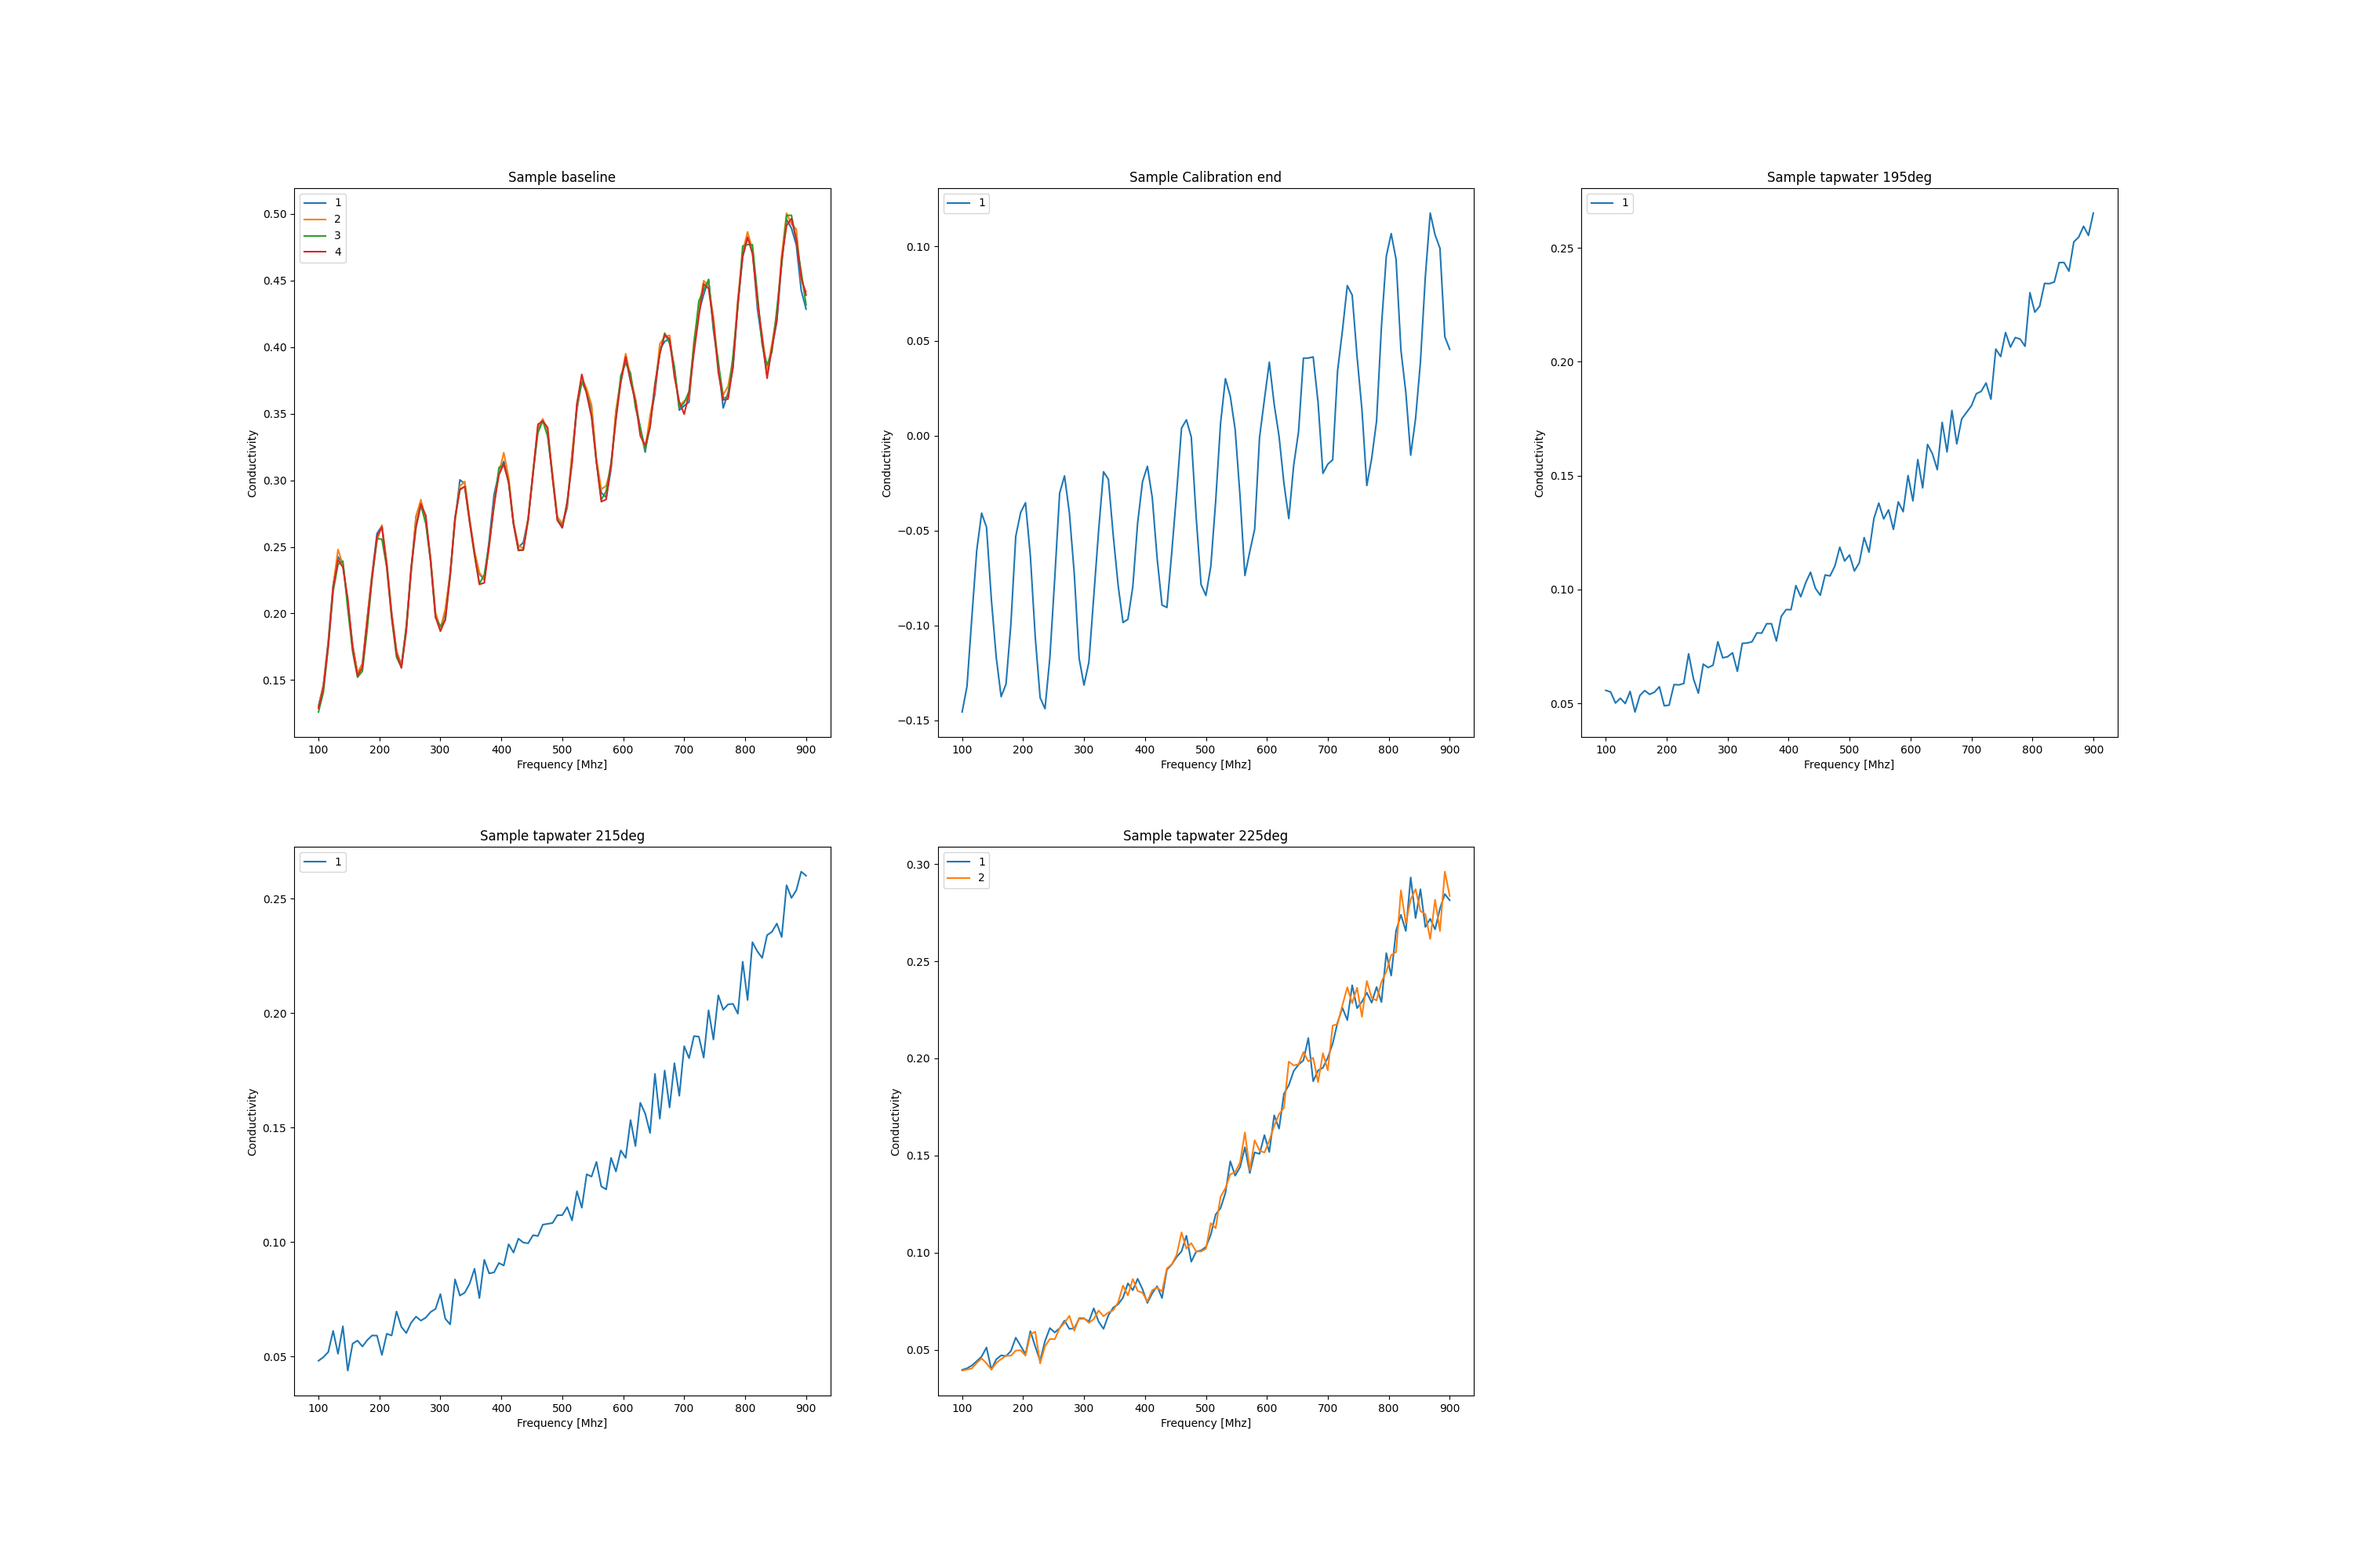
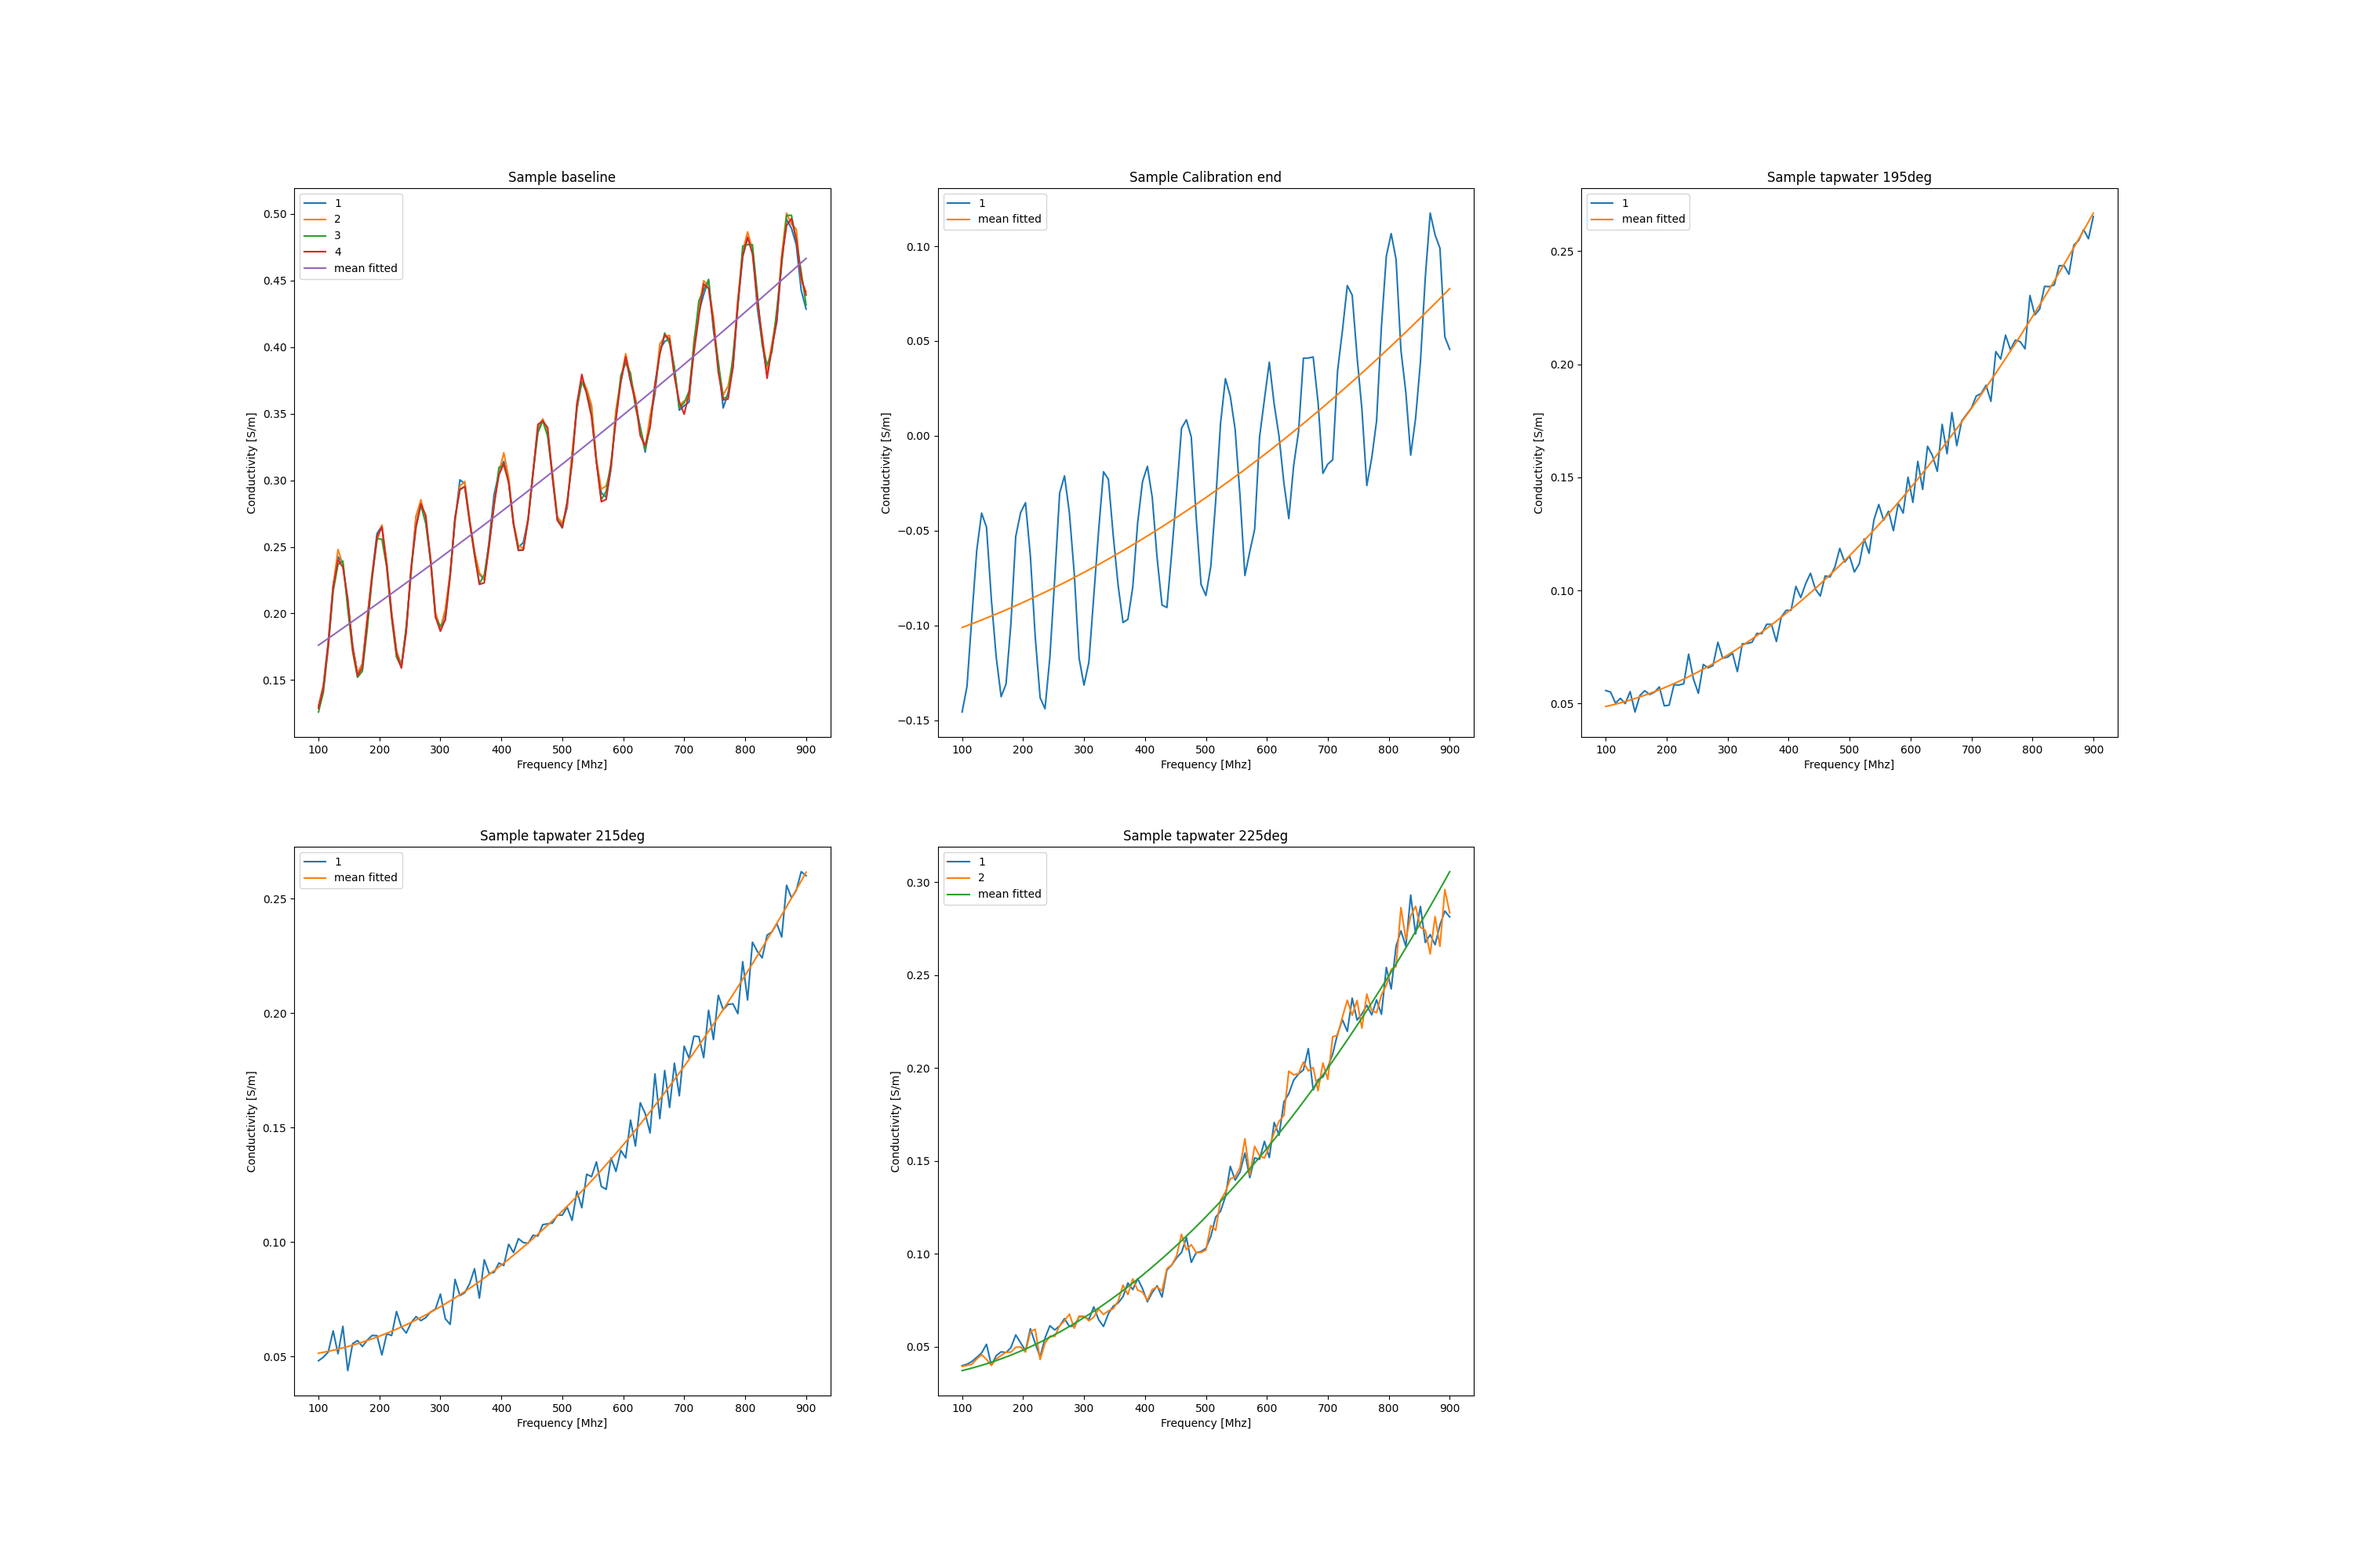
Misc improvement VNA

diff --git a/Miscellanous_comparison.py b/Miscellanous_comparison.py
@@ -2,6 +2,7 @@ import os
 from math import pi
 
 import matplotlib.pyplot as plt
+import numpy as np
 import pandas as pd
 
 eps0 = 8.8542e-12
@@ -68,9 +69,14 @@ if __name__ == "__main__":
             ax.plot(df[column])
             print(column)
 
+        # Fitting a line to the mean:
+        coeff = np.polyfit(df.index, df.mean(axis=1), 2)
+        y_fit = coeff[0] * (df.index ** 2) + coeff[1] * df.index + coeff[2]
+        ax.plot(df.index, y_fit)
+
         plt.xlabel('Frequency [Mhz]')
-        plt.ylabel('Conductivity')
-        plt.legend(list(df.columns))
+        plt.ylabel('Conductivity [S/m]')
+        plt.legend(list(df.columns)+['mean fitted'])
 
         counter += 1
 
